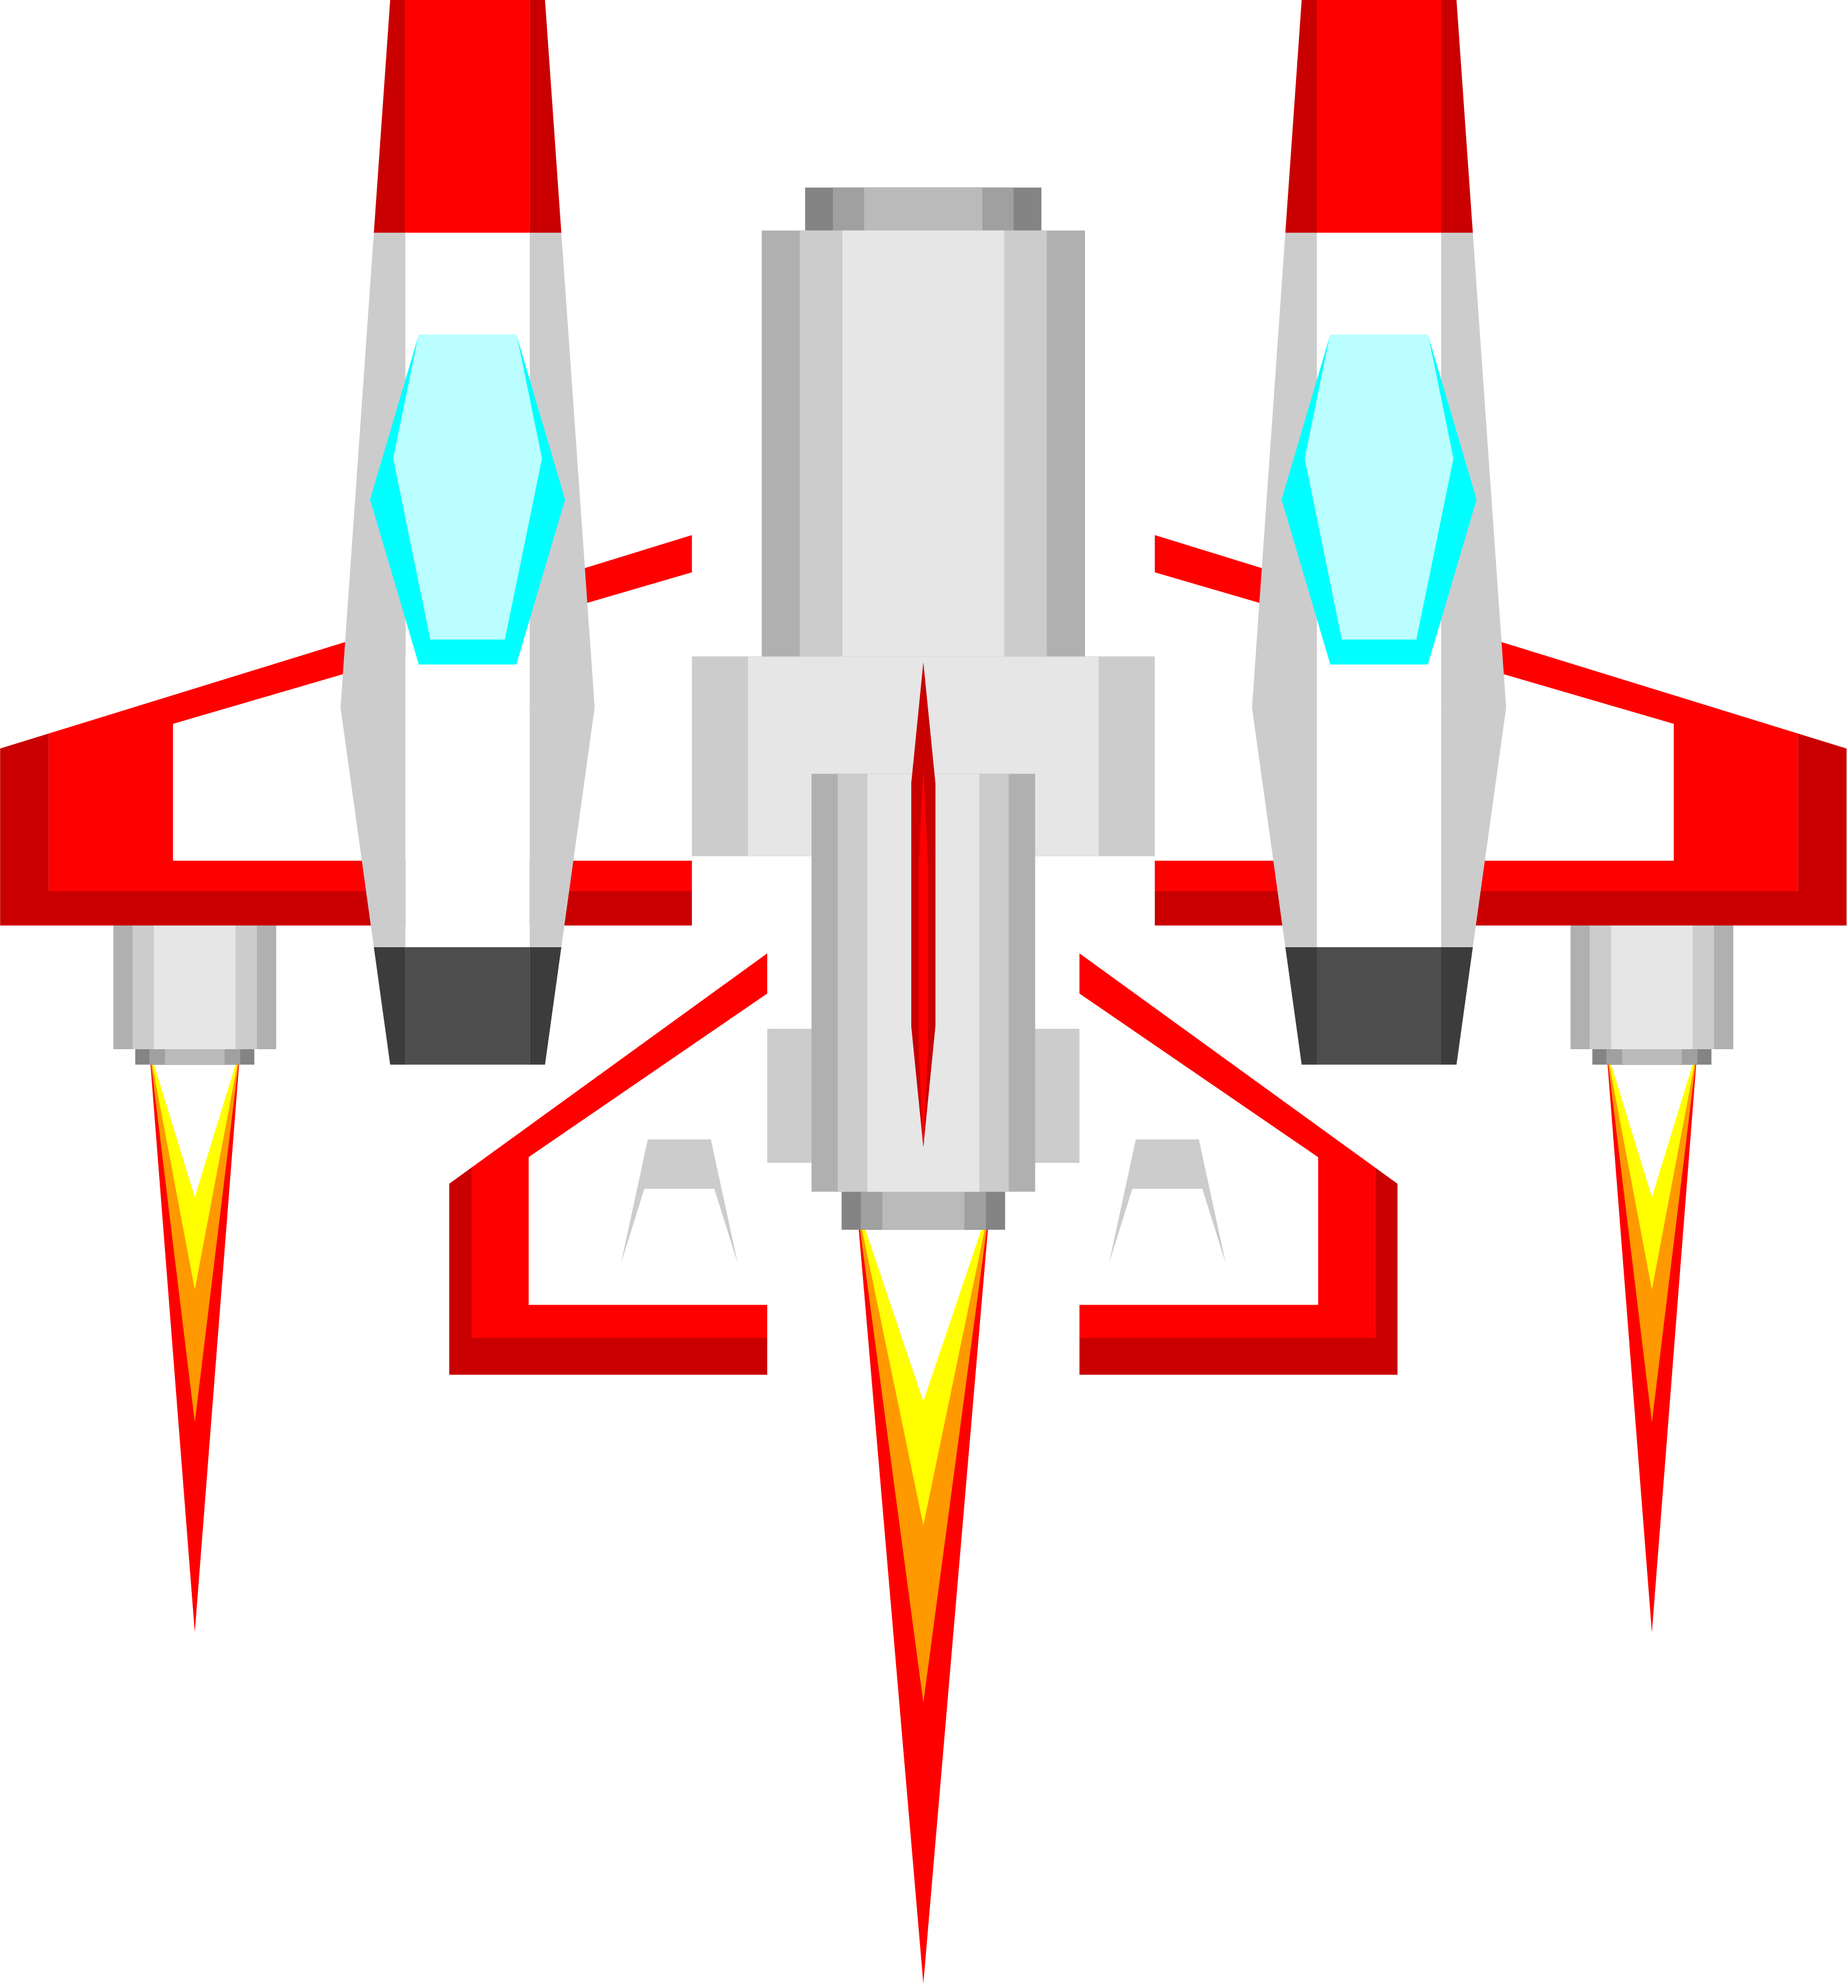
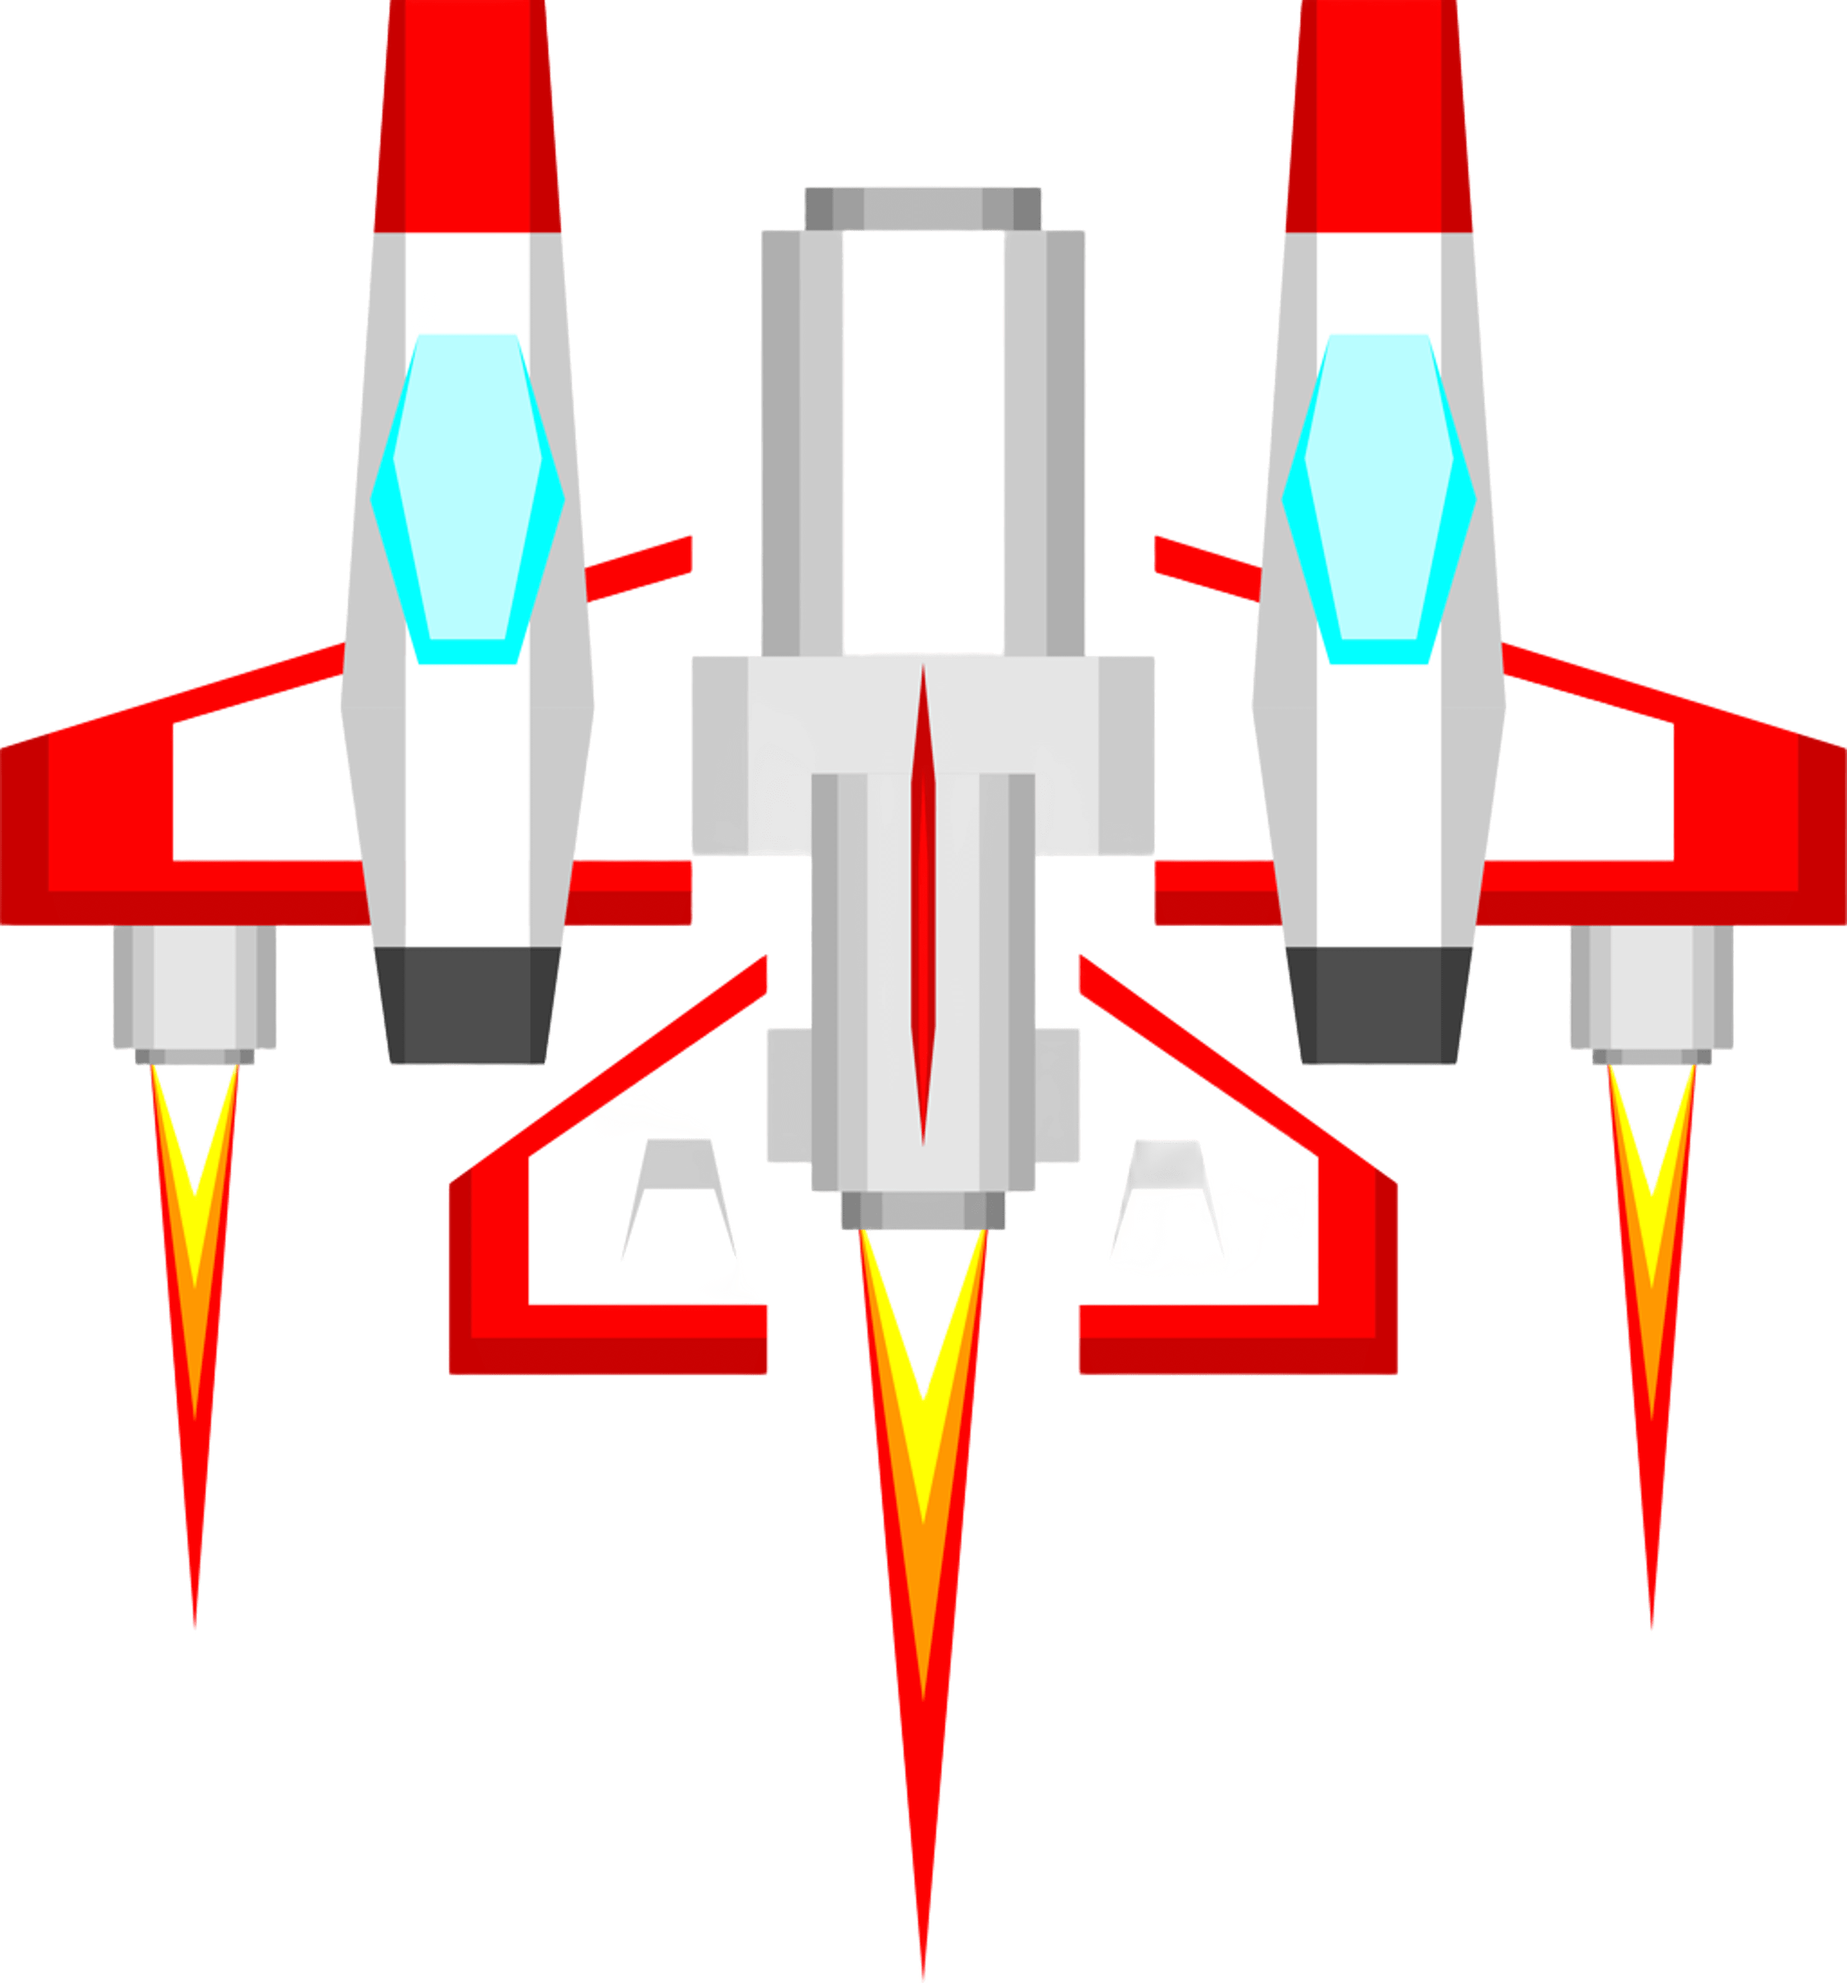
変更

diff --git a/game/js/enemies.js b/game/js/enemies.js
@@ -1,7 +1,7 @@
 export const enemies = [];
 const SIZE = 50;
 const enemyImage = new Image();
-enemyImage.src = "images/隕石.jpg";
+enemyImage.src = "images/隕石.png";
 
 function pushEnemies(canvas) {//enemyは敵の意味
     const w = SIZE;
